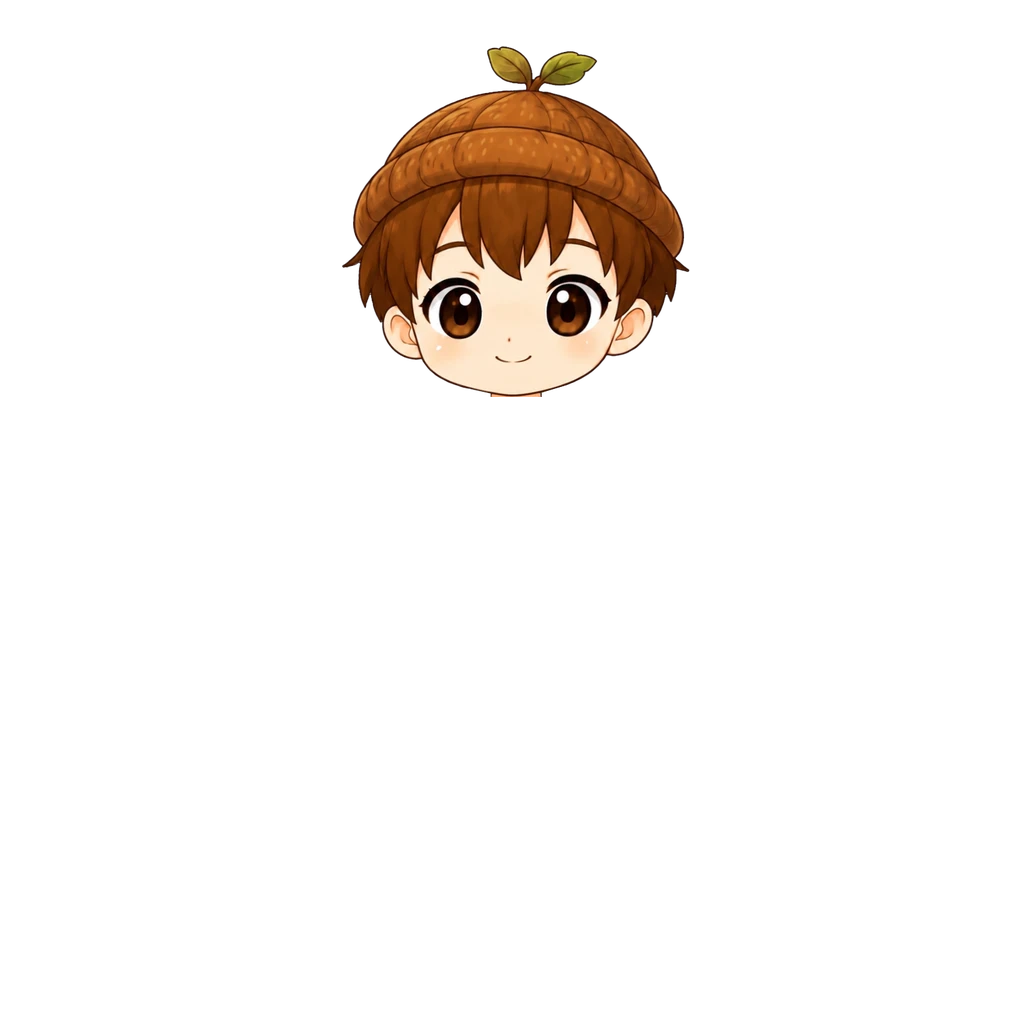
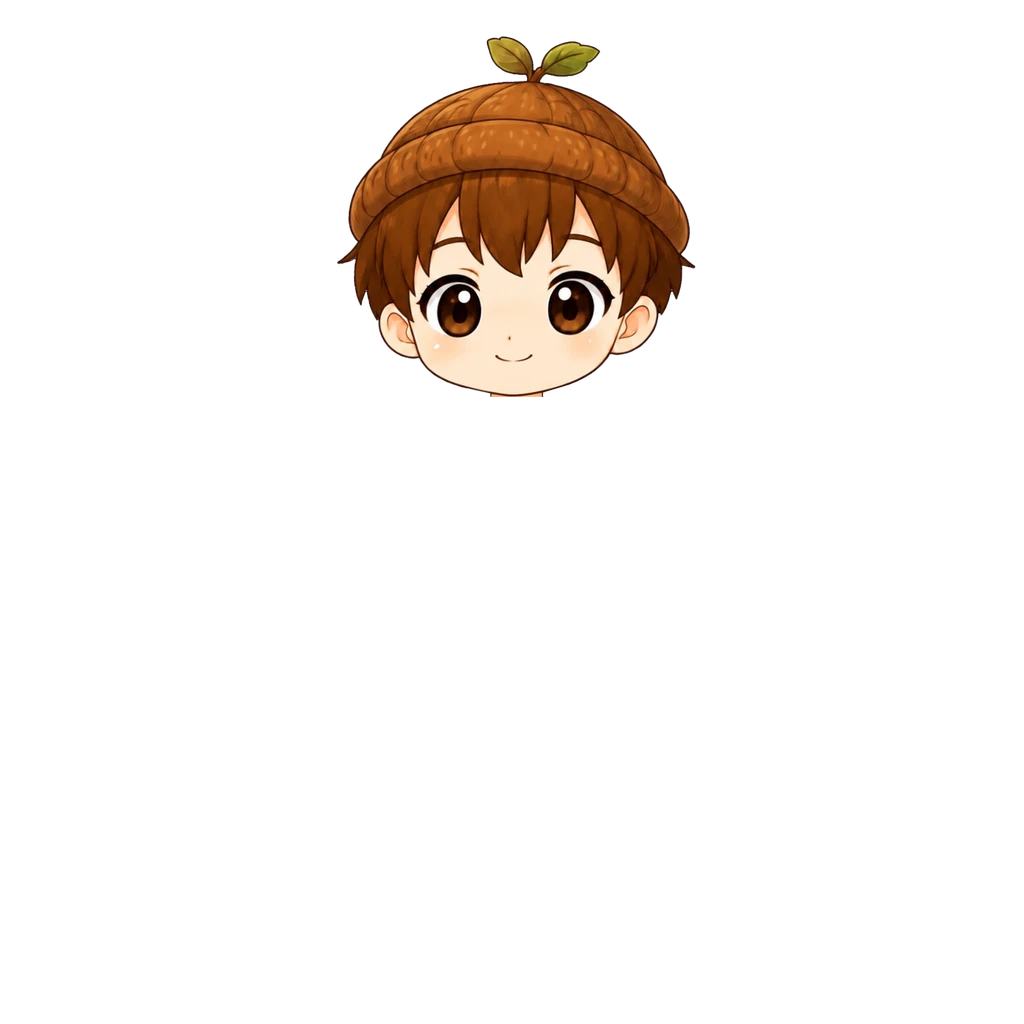
도토리 모자(남아) 3% 크게 (#910)
턱·얼굴 가운데 고정으로 배율 0.672→0.6922. img ?v=2.

Claude-Session: https://claude.ai/code/session_018maNuYqDfFyRSe9uKpZhPR

Changed region(s): [[0.3125, 0.0312, 0.6875, 0.375], [0.5625, 0.3438, 0.5938, 0.375]]

diff --git a/src/data/avatarEquipment.js b/src/data/avatarEquipment.js
@@ -290,8 +290,9 @@ export const AVATAR_CATALOG = [
   { id: "hat_pirate_boy", slot: "hat",   label: "해적 모자", emoji: "🏴☠", price:DECOR_PRICE.epic, rarity: "epic", theme: "pirate", forGender: "boy", hidesHead: true, img: "assets/avatar/hat/pirate-hat-boy.webp?v=2", thumb: "assets/avatar/thumb/hat_pirate_boy.webp" },
   /* 도토리 모자 [2026-10-05] — 남아. 갈색 도토리 비니(새싹 꼭지) + 얼굴 한 장(사용자 원화 520×522).
      번개 캡모자와 같은 방식(hidesHead) — 얼굴(눈~입) 템플릿 매칭(일치 0.893)으로 배율 0.672, 원점 (341,46). y404 아래 자름.
-     탑재 상자 (342,46,690,397). */
-  { id: "hat_acorn_boy",  slot: "hat",   label: "도토리 모자", emoji: "🌰", price:DECOR_PRICE.rare, rarity: "rare", theme: "common", forGender: "boy", hidesHead: true, img: "assets/avatar/hat/acorn-hat-boy.webp", thumb: "assets/avatar/thumb/hat_acorn_boy.webp" },
+     탑재 상자 (342,46,690,397).
+     [2026-10-05] 사용자 조정 — 3% 크게(배율 0.6922, 턱·얼굴 가운데 고정, 원점 (336,36)). 탑재 상자 (337,36,696,397). img ?v=2. */
+  { id: "hat_acorn_boy",  slot: "hat",   label: "도토리 모자", emoji: "🌰", price:DECOR_PRICE.rare, rarity: "rare", theme: "common", forGender: "boy", hidesHead: true, img: "assets/avatar/hat/acorn-hat-boy.webp?v=2", thumb: "assets/avatar/thumb/hat_acorn_boy.webp" },
   /* 사파리 옷 — 원화가 블라우스+반바지 한 장이라 상의 슬롯 하나로 넣는다(사용자 확정).
      상의(35)가 하의(30) 위라 하의를 같이 껴도 이 그림이 덮는다. */
   /* [2026-08-20] 남아 원화가 들어와 남녀 공용이 됐다 — 그림이 성별로 갈리는 첫 아이템.

diff --git a/art-src/README.md b/art-src/README.md
@@ -620,4 +620,4 @@ bbox로 여백만 잘라내고 배포본은 높이 480px로 축소했다(전부 
 | thumb-src-hat_helmet_girl.webp | **상점 목록 그림 여아 우주 헬멧 (hat_helmet_girl, 사용자 원화 2026-10-04)** — 상점 카드에만 보이는 모자 아이콘(쓰는 그림과 별개). 518×415 투명 배경, 세로 160px 로 줄여 탑재(thumb ?v=2) | avatar/thumb/hat_helmet_girl.webp |
 | action-camera-src.webp | **탐험 카메라 원화 남녀 공용 (사용자 원화 2026-10-04)** — 156×276 투명 배경, 검은 액션 카메라 + 카키 끈. 첫 목 장식. 배율 0.62, 끈 가운데를 목 가운데에, 끈 위끝을 목·어깨 만나는 높이(남아 y392·여아 y356)에 맞춰 성별마다 따로 탑재. 남아 상자 (467,392,564,563) · 여아 상자 (465,356,562,527). **[2026-10-05 조정]** 남아만 아래로 5·왼쪽 2, 남아 상자 (465,397,562,568) · img ?v=2. 남아만 4% 크게(0.6448), 상자 (463,397,564,575) · img ?v=3. 남아만 2% 더 크게(0.6577), 상자 (462,397,565,579) · img ?v=4. 여아만 왼쪽 6·아래로 4, 상자 (459,360,556,531) · imgGirl ?v=2. 여아만 2% 작게(0.6076), 상자 (460,360,555,528) · imgGirl ?v=3. 여아만 오른쪽 2·아래로 3, 상자 (462,363,557,531) · imgGirl ?v=4. 여아만 오른쪽 1·아래로 4 더, 상자 (463,367,558,535) · imgGirl ?v=5. 상점 그림은 원화를 세로 160px 로 | avatar/neck/action-camera-boy.webp · action-camera-girl.webp · thumb/neck_camera.webp |
 | swim-goggles-boy-src.webp | **물안경 원화 남아 (사용자 원화 2026-10-05)** — 366×154 투명 배경, 하늘색 물안경 + 렌즈 안 눈 그림. 첫 얼굴 장식. 렌즈 속 눈을 기본 머리 눈에 템플릿 매칭(일치 0.915)해 배율 0.670·원점 (392,255). 탑재 상자 (392,255,637,358). 상점 그림은 원화를 세로 160px 로 | avatar/face/swim-goggles-boy.webp · thumb/face_goggles_boy.webp |
-| acorn-hat-boy-src.webp | **도토리 모자 원화 남아 — 모자+얼굴 한 장 (사용자 원화 2026-10-05)** — 갈색 도토리 비니(새싹 꼭지). hidesHead 로 기본 머리를 대신한다. 얼굴 템플릿 매칭(일치 0.893)으로 배율 0.672·원점 (341,46), y404 아래 자름. 탑재 상자 (342,46,690,397). 상점 그림은 원화를 세로 160px 로 | avatar/hat/acorn-hat-boy.webp · thumb/hat_acorn_boy.webp |
+| acorn-hat-boy-src.webp | **도토리 모자 원화 남아 — 모자+얼굴 한 장 (사용자 원화 2026-10-05)** — 갈색 도토리 비니(새싹 꼭지). hidesHead 로 기본 머리를 대신한다. 얼굴 템플릿 매칭(일치 0.893)으로 배율 0.672·원점 (341,46), y404 아래 자름. 탑재 상자 (342,46,690,397). **[2026-10-05 조정]** 3% 크게(0.6922, 원점 (336,36)) · img ?v=2. 상점 그림은 원화를 세로 160px 로 | avatar/hat/acorn-hat-boy.webp · thumb/hat_acorn_boy.webp |
